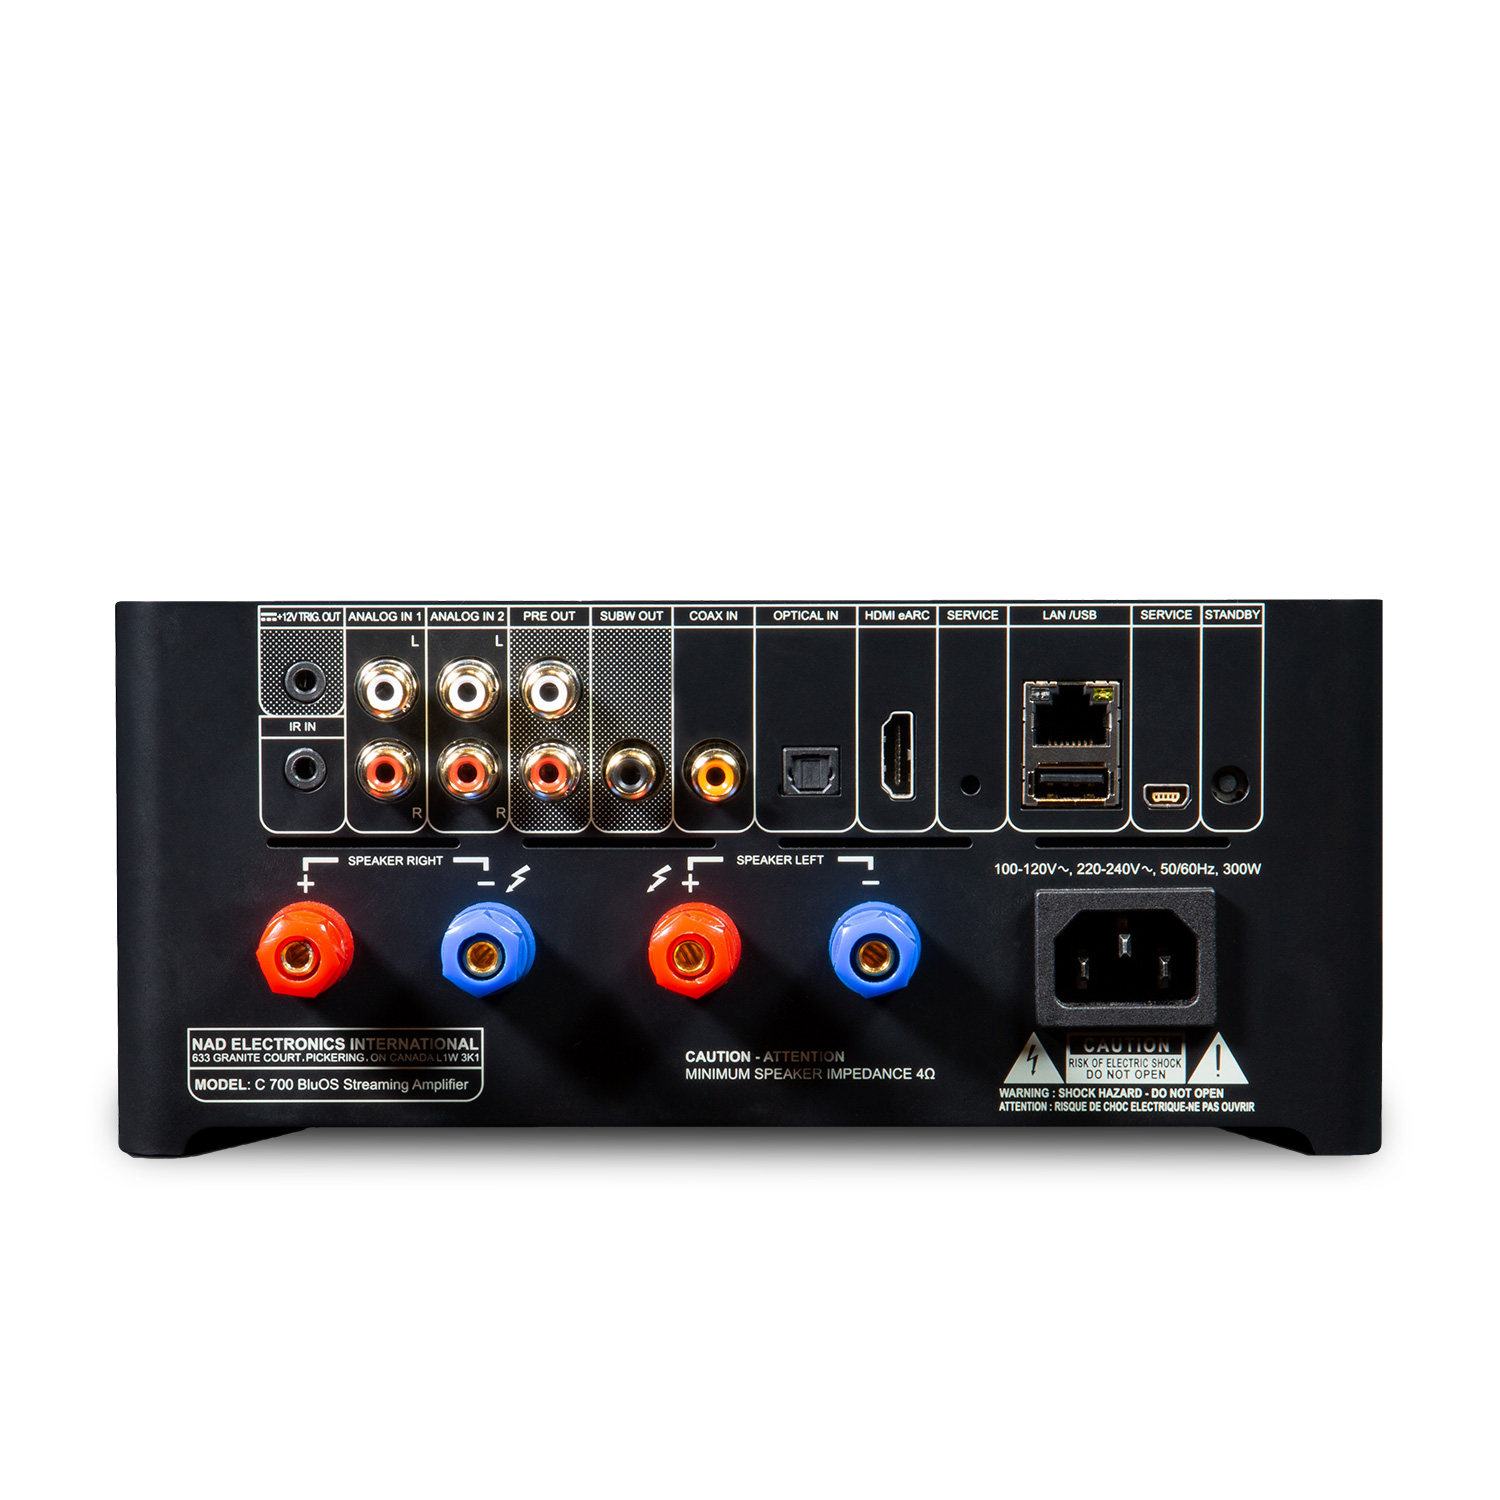
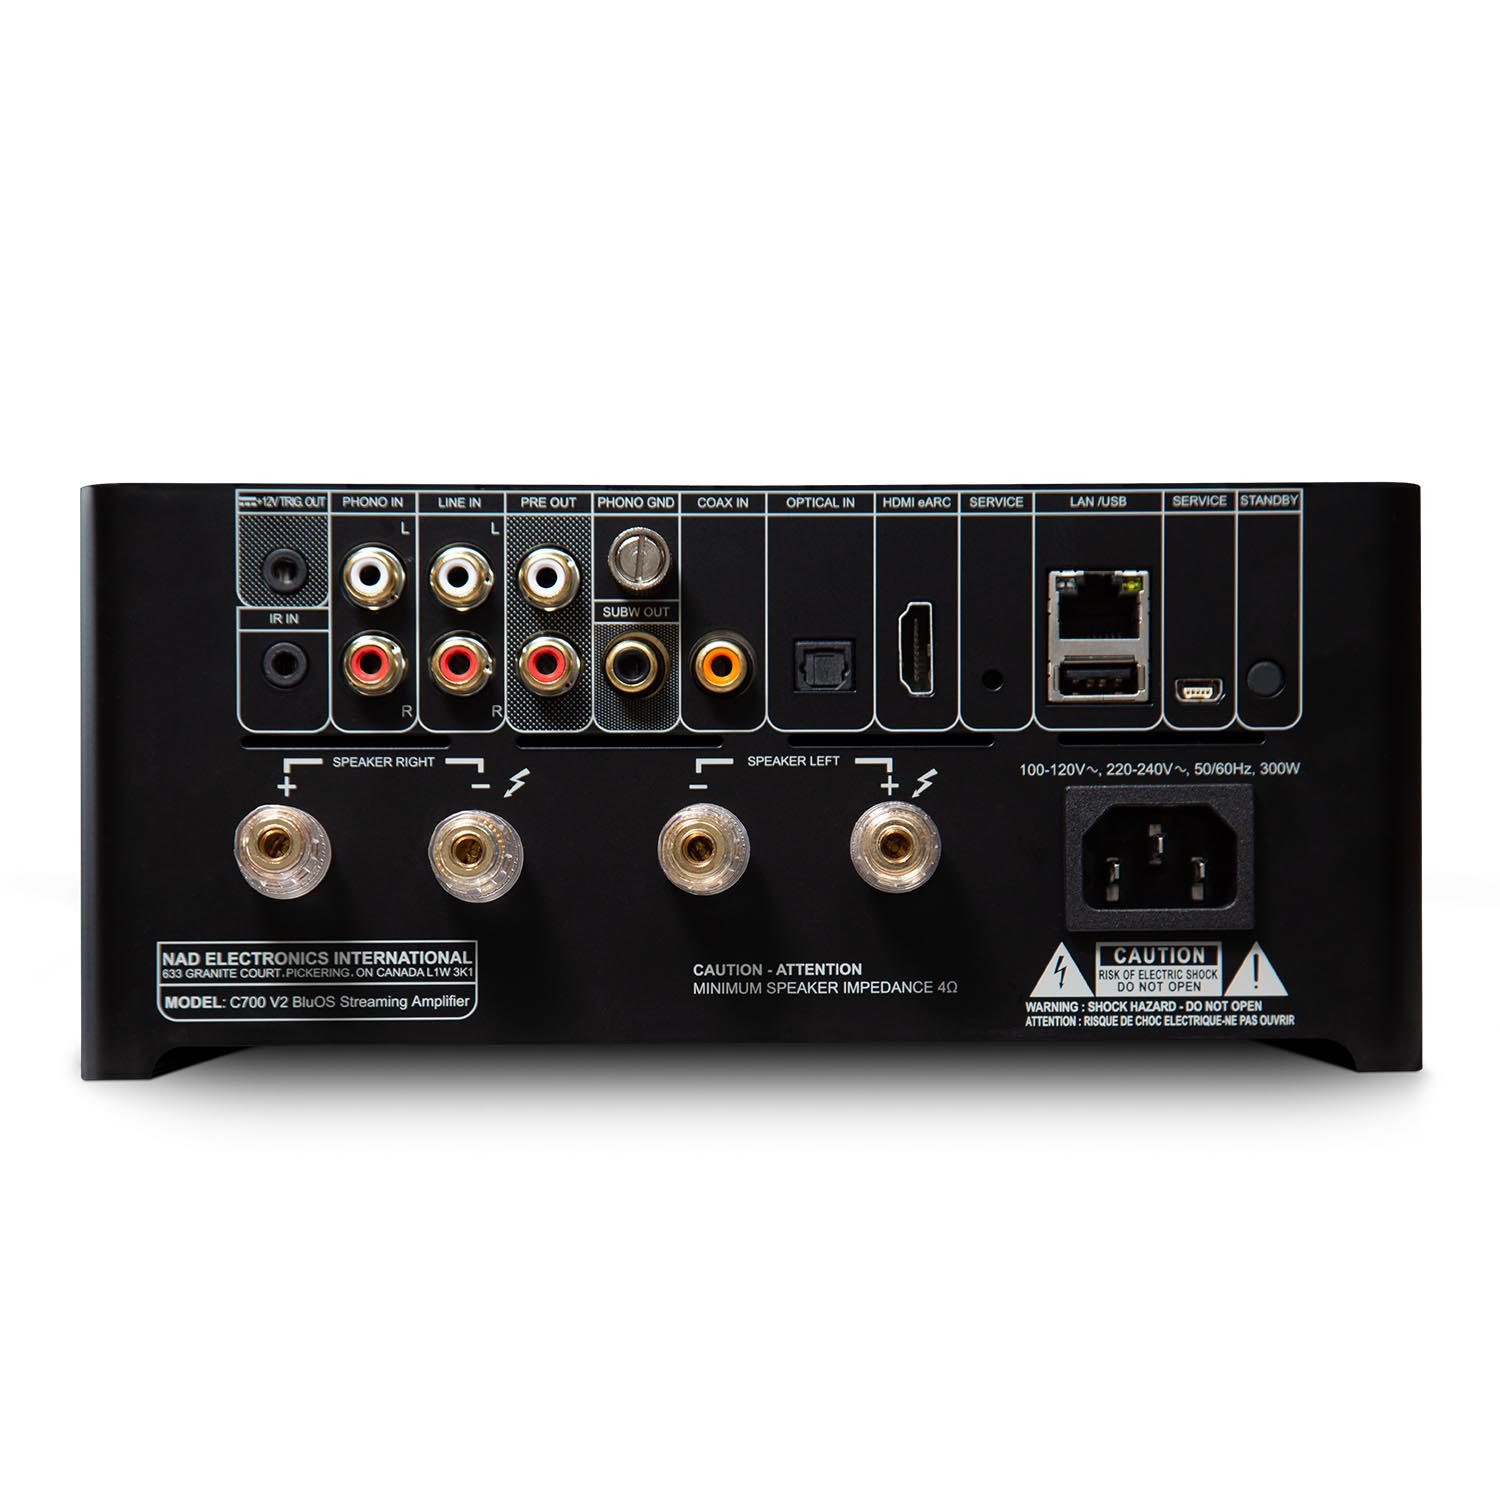
Fixes: C700V2 etc

Changed region(s): [[0.0307, 0.3067, 0.9507, 0.7973]]

diff --git a/scripts/data.js b/scripts/data.js
@@ -8762,8 +8762,8 @@ const products = [{
         "Compact Amplifiers with Streaming"
     ],
     inputs: [
-        "ANALOG IN 1",
-        "ANALOG IN 2",
+        "PHONO IN",
+        "LINE IN",
         "COAXIAL IN",
         "OPTICAL IN",
         "HDMI eARC"
@@ -8774,7 +8774,7 @@ const products = [{
         "SUBW OUT 1",
         "SPEAKER OUT"
     ],
-    sku: "NADC700",
+    sku: "NADC700V2",
     image: [
         "images/nad-c-700-v2-front.jpg",
         "images/nad-c-700-v2-back.jpg"

diff --git a/styles/css.css b/styles/css.css
@@ -9,9 +9,10 @@
     --panel-bg: #FFFFFF;
     --border-color: #c0c1c6;
     --shadow-color: rgba(0, 0, 0, 0.1);
-    --hifi-black: #380e0e;
-    --hifi-white2: #FAFAFF;
-    --hifi-white: #efeff3e6;
+    --hifi-black2: #380e0e;
+    --hifi-white: #FAFAFF;
+    --hifi-black: #231f20;
+    --hifi-white2: #efeff3e6;
     transition: fill 0.3, background-color 0.3s, color 0.3s, border-color 0.3;
     --background-gradient: #8e9eab;
     /* fallback for old browsers */

diff --git a/scripts/Categories.md b/scripts/Categories.md
@@ -16,6 +16,8 @@ Categories
         D/A Converters
         A/D Converters
         Headphone Amplifiers
+        Wireless Adapters
+        Peripherals
     Radios
         Radios
         Radios with DAB
